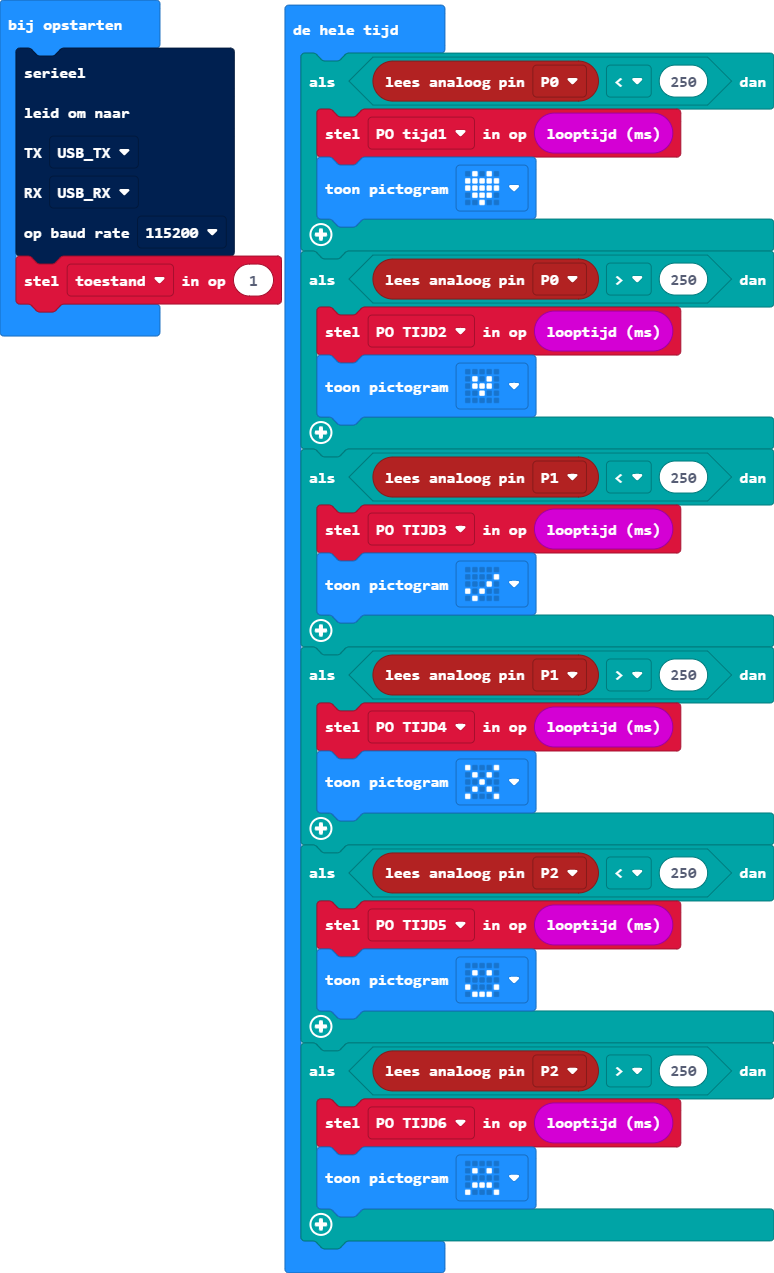
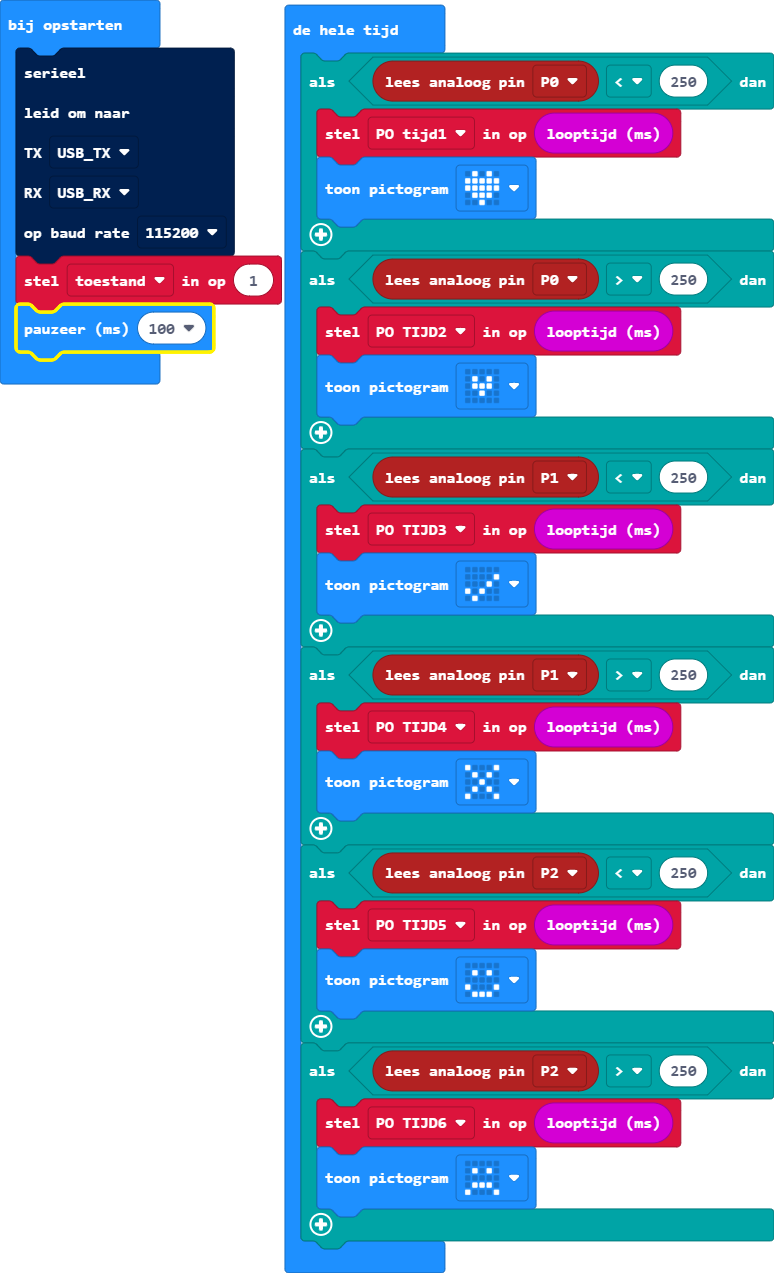
DEBUG

Changed region(s): [[0.0, 0.2145, 0.2791, 0.3064]]

diff --git a/main.ts b/main.ts
@@ -10,6 +10,7 @@ SerialPin.USB_RX,
 BaudRate.BaudRate115200
 )
 let toestand = 1
+basic.pause(100)
 basic.forever(function () {
     if (pins.analogReadPin(AnalogPin.P0) < 250) {
         PO_tijd1 = input.runningTime()
